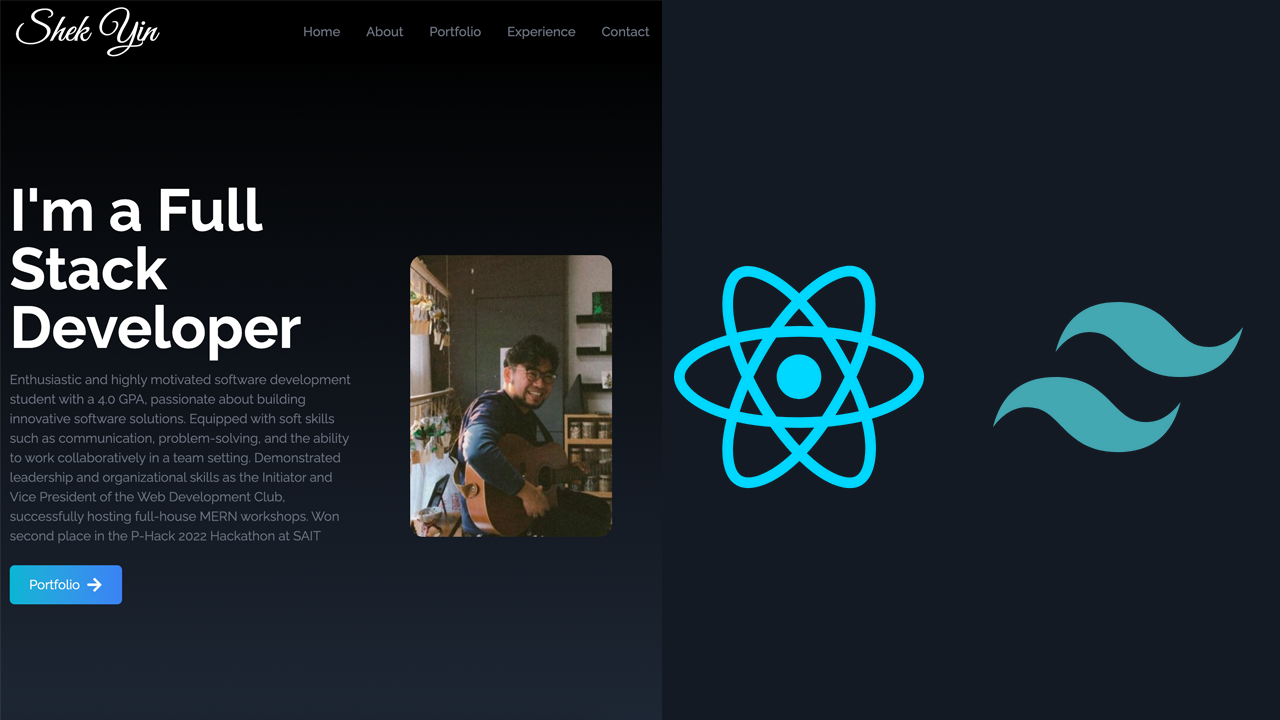
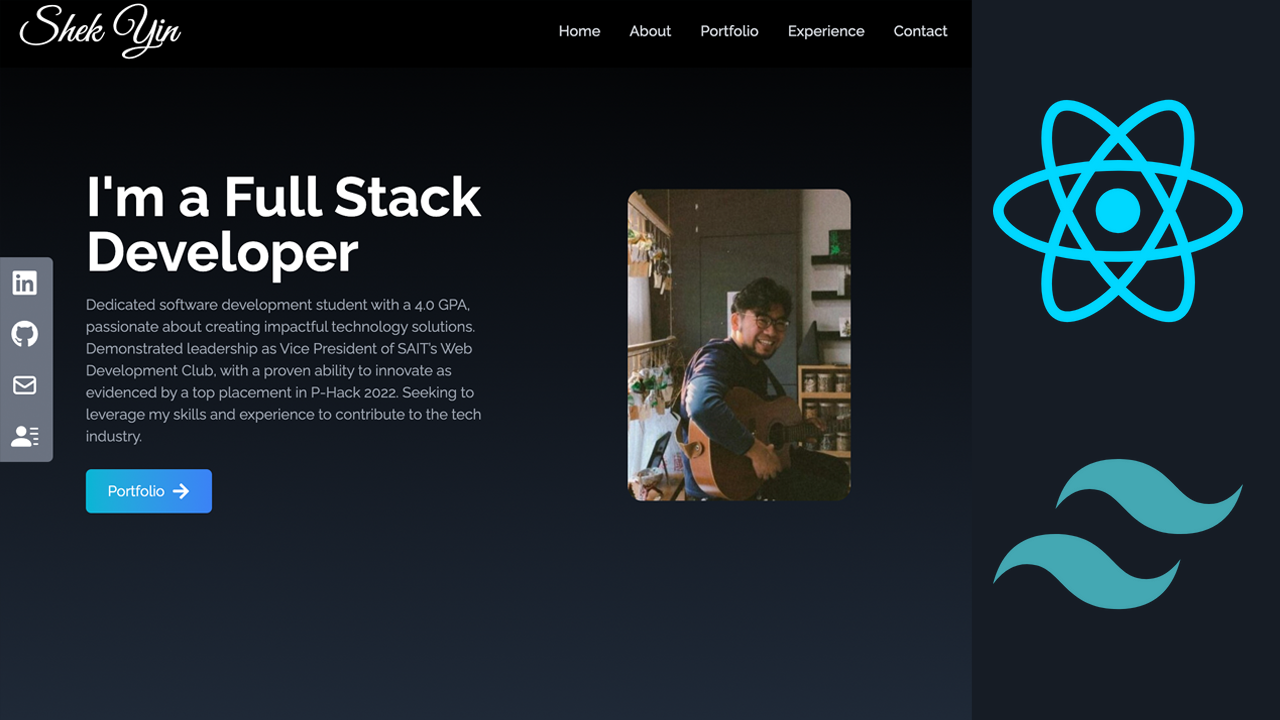
Refactor responsive design and update portfolio images

diff --git a/src/components/About.jsx b/src/components/About.jsx
@@ -4,34 +4,46 @@ const About = () => {
   return (
     <div
       name="about"
-      className="w-full h-screen bg-gradient-to-b from-gray-800 to-black text-white"
+      className="w-full md:h-screen bg-gradient-to-b from-gray-800 to-black text-white"
     >
-      <div className="max-w-screen-lg p-4 mx-auto flex flex-col justify-center w-full h-full">
+      <div className="max-w-screen-lg p-4 mx-auto flex flex-col justify-center w-full md:h-full">
         <div className="pb-8">
           <p className="text-4xl font-bold inline border-b-4 border-gray-500">
             About
           </p>
         </div>
-        <p className="text-xl mt-20 ">
-          Based in Calgary from 2022, full time studying Software Development
-          Diploma in SAIT, will graduate on April 2024. Equiped Python, C#,
-          JavaScript, HTML, CSS, at SAIT's learning, have so much passion on
-          software, web and mobile app development. With 13 years Banking
-          industry experience, expert in selling and customer relationship.
-          Founded Sunbath Store (online grocery store) and JEFT (Herbal tea
-          manufacture) in 2021. Passion in music and sport, over 20 years
-          taekwondo couching experience and also singer-songwriter for
-          Canton-pop music.
+        <p className="text-lg md:text-xl md:leading-8">
+          I bring with me over a decade of front-line experience in Hong Kong’s
+          banking sector and a twenty-year tenure as a Taekwondo coach, during
+          which I honed a diverse set of soft skills. In 2022, I embarked on a
+          new chapter in Calgary, eager to demonstrate my adaptability and
+          thirst for learning. I chose to dive into the realm of Software
+          Development—a field completely new to me. The diploma program has been
+          an intensive journey, offering a comprehensive grasp of various
+          programming languages spanning from back-end to front-end development.
+          This leap into IT as a beginner has been a significant challenge, yet
+          my enthusiasm for technology and a strategic learning approach have
+          earned me a perfect 4.0 GPA across all subjects for three consecutive
+          semesters. 
+          <br/><br/>
+          My time at SAIT has been more than academic; I took the initiative to
+          establish a Student Web Development Club named 'The Web Wizard,' where
+          I proudly serve as Vice President. 'The Web Wizard' orchestrates a
+          variety of events, including JavaScript and MERN workshops, and
+          Hackathon competitions, enriching my understanding of North American
+          work culture and fostering connections with fellow students and
+          faculty.
+          <br/><br/>
+          I am eager to transition into the North American tech industry,
+          where I intend to further my learning and make substantial
+          contributions. My journey so far has proven my ability to quickly
+          master new skills and adapt to various challenges. I am open and
+          enthusiastic about working with any technology stack, confident in my
+          capacity as a fast learner to thrive in diverse tech environments.
+          This flexibility, coupled with a foundation in multiple programming
+          languages, prepares me to meet the evolving needs of the industry with
+          both skill and a willingness to continually grow.
         </p>
-        <br />
-        {/* <p className="text-xl">
-          Lorem ipsum dolor sit amet consectetur adipisicing elit. Animi
-          perferendis optio qui est facere adipisci officia eaque cum harum
-          inventore, nulla dolores doloribus obcaecati ex asperiores corporis
-          quis deleniti tempora a ullam assumenda commodi repellendus suscipit
-          minima? Provident nam, quos laborum, quidem officiis animi culpa
-          dolores repudiandae nisi a rerum.
-        </p> */}
       </div>
     </div>
   );

diff --git a/src/components/Home.jsx b/src/components/Home.jsx
@@ -1,34 +1,59 @@
-import React from 'react'
-import ownImage from '../assets/heroImage3.jpeg'
-import {FaArrowRight} from 'react-icons/fa'
-import { Link } from 'react-scroll'
+import React from "react";
+import ownImage from "../assets/heroImage3.jpeg";
+import { FaArrowRight } from "react-icons/fa";
+import { Link } from "react-scroll";
 
 const Home = () => {
   return (
-    <div name="home" className="mt-10 h-screen w-full bg-gradient-to-b from-black to-gray-800 ">
+    <div
+      name="home"
+      className="mt-10 h-screen w-full bg-gradient-to-b from-black to-gray-800 "
+    >
       <div className=" ms-auto flex flex-col items-center h-full justify-center px-4 md:flex-row">
-        <div className="flex flex-col justify-center">
-          <h2 className=" md:text-6xl font-bold text-white w-fit text-3xl  ">
+        <div className="flex flex-col justify-center items-center md:ml-20">
+        <div className="flex md:hidden justify-center">
+          <img
+            src={ownImage}
+            alt="my profile"
+            className="rounded-2xl w-1/2 mb-14"
+          />
+        </div>
+          <h2 className=" md:text-6xl font-bold text-white max-w-lg text-3xl md:mb-5 ">
             I'm a Full Stack Developer
           </h2>
-          <p className="text-gray-400 py-4 max-w-lg">
-          Enthusiastic and highly motivated software development student with a 4.0 GPA, passionate about building innovative software solutions. Equipped with soft skills such as communication, problem-solving, and the ability to work collaboratively in a team setting. Demonstrated leadership and organizational skills as the Initiator and Vice President of the Web Development Club, successfully hosting full-house MERN workshops. Won second place in the P-Hack 2022 Hackathon at SAIT
+          <p className="text-gray-400 py-4 max-w-lg md:mt-5">
+            Dedicated software development student with a 4.0 GPA, passionate
+            about creating impactful technology solutions. Demonstrated
+            leadership as Vice President of SAIT’s Web Development Club, with a
+            proven ability to innovate as evidenced by a top placement in P-Hack
+            2022. Seeking to leverage my skills and experience to contribute to
+            the tech industry.
           </p>
-          <div>
-            <Link to="portfolio" smooth duration={500} className=" group text-white w-fit px-6 py-3 my-2 flex items-center rounded-md bg-gradient-to-r from-cyan-500 to-blue-500 cursor-pointer">
+          <div className="md:mt-10">
+            <Link
+              to="portfolio"
+              smooth
+              duration={500}
+              offset={-80}
+              className=" group text-white w-fit px-6 py-3 my-2 flex items-center rounded-md bg-gradient-to-r from-cyan-500 to-blue-500 cursor-pointer"
+            >
               Portfolio
               <span className="group-hover:rotate-90 duration-300">
-                <FaArrowRight size={20} className="ml-2"/>
-                </span>
+                <FaArrowRight size={20} className="ml-2" />
+              </span>
             </Link>
           </div>
         </div>
-        <div>
-          <img src={ownImage} alt="my profile" className="rounded-2xl mx-auto w-1/3 md:w-6/12"/>
+        <div className="hidden md:flex">
+          <img
+            src={ownImage}
+            alt="my profile"
+            className="rounded-2xl mx-auto w-1/3 md:w-6/12"
+          />
         </div>
       </div>
     </div>
-  )
-}
+  );
+};
 
-export default Home
+export default Home;

diff --git a/src/components/Portfolio.jsx b/src/components/Portfolio.jsx
@@ -2,6 +2,9 @@ import React from "react";
 import sunbathgamescore from "../assets/portfolio/sunbathgamescore.png";
 import decidophobia from "../assets/portfolio/decidophobia.png";
 import portfolioWeb from "../assets/portfolio/portfolioWeb.png";
+import sniperAcademy from "../assets/portfolio/sniperAcademy.png";
+import xpert from "../assets/portfolio/Xpertucantwin.png";
+import wordsOfWesteros from "../assets/portfolio/wordsOfWesteros.png";
 
 const Portfolio = () => {
   const portfolio = [
@@ -14,29 +17,48 @@ const Portfolio = () => {
     },
     {
       id: 2,
+      src: xpert,
+      showDemo: false,
+      gitURL:"https://github.com/alexltyt/XpertYouCantWin"
+    },
+    {
+      id: 3,
+      src: wordsOfWesteros,
+      showDemo: true,
+      demoURL: "https://words-of-westeros-alexltyt.vercel.app/",
+      gitURL:"https://github.com/alexltyt/WordsofWesteros"
+    },
+    {
+      id: 4,
+      src: sniperAcademy,
+      showDemo: false,
+      gitURL:"https://github.com/alexltyt/sniperAcademy"
+    },
+    {
+      id: 5,
       src: decidophobia,
       showDemo: true,
       demoURL: "https://alexltyt.github.io/Decidophobia/",
       gitURL:"https://github.com/alexltyt/Decidophobia"
     },
     {
-      id: 3,
+      id: 6,
       src: portfolioWeb,
       showDemo: false,
       gitURL:"https://github.com/alexltyt/own-portfolio"
     },
+      
   ];
   return (
     <div
       name="portfolio"
       className=" bg-gradient-to-b from-black to-gray-800 w-full text-white md:h-screen"
     >
-      <div className=" max-w-screen-lg p-4 mx-auto flex flex-col justify-center w-full h-full">
+      <div className=" max-w-screen-lg p-4 mx-auto flex flex-col justify-center w-full md:h-full">
         <div className="pb-8">
           <p className=" text-4xl font-bold inline border-b-4 border-gray-500">
             Portfolio
           </p>
-          <p className="py-6">Check out some of my work right here</p>
         </div>
         <div  className="grid sm:grid-cols-2 md:grid-cols-3 gap-8 px-12 sm:px-0">
         {portfolio.map(({ id, src,showDemo,demoURL,gitURL }) => (

diff --git a/src/components/Experience.jsx b/src/components/Experience.jsx
@@ -1,6 +1,6 @@
 import React from 'react';
 import html from "../assets/HTMLCSS.png";
-import css from "../assets/css.png";
+// import css from "../assets/css.png";
 import javascript from "../assets/javascript.png";
 import reactImage from "../assets/reactImage.png";
 import nextjs from "../assets/nextjs.png";
@@ -9,7 +9,7 @@ import github from "../assets/github.png";
 import tailwind from "../assets/tailwind.png";
 import java from "../assets/java.png";
 import python from "../assets/python.png";
-import reactNative from "../assets/reactNative.png";
+// import reactNative from "../assets/reactNative.png";
 const Experience = () => {
     const techs = [
         {
@@ -68,8 +68,8 @@ const Experience = () => {
         },
     ]
   return (
-    <div name="experience" className=" bg-gradient-to-b from-gray-800 to-black w-full h-screen">
-        <div className="max-w-screen-lg mx-auto p-4 flex flex-col justify-center w-full h-full text-white">
+    <div name="experience" className=" bg-gradient-to-b from-gray-800 to-black w-full md:h-screen">
+        <div className="max-w-screen-lg mx-auto p-4 flex flex-col justify-center w-full md:h-full text-white">
             <div>
                 <p className=" text-4xl font-bold border-b-4 border-gray-500 p-2 inline">Experience</p>
                 <p className=" py-6">These are the technologies I've worked with</p>

diff --git a/src/components/NavBar.jsx b/src/components/NavBar.jsx
@@ -40,7 +40,7 @@ const NavBar = () => {
             key={id}
             className="px-4 cursor-pointer capitalize font-medium text-gray-300 hover:scale-110 duration-200"
           >
-            <Link to={link} smooth duration={500}>
+            <Link to={link} smooth duration={500} isDynamic={true}>
               {link}
             </Link>
           </li>
@@ -61,7 +61,7 @@ const NavBar = () => {
               key={id}
               className="px-4 cursor-pointer capitalize py-6 text-4xl"
             >
-            <Link onClick={()=>setNav(!nav)} to={link} smooth duration={500}>
+            <Link onClick={()=>setNav(!nav)} to={link} smooth duration={500} isDynamic={true} offset={-80}>
               {link}
             </Link>
             </li>

diff --git a/src/components/Contact.jsx b/src/components/Contact.jsx
@@ -2,8 +2,8 @@ import React from 'react'
 
 const Contact = () => {
   return (
-    <div name="contact" className="w-full h-screen bg-gradient-to-b from-black to-gray-800 text-white">
-        <div className="flex flex-col p-4 justify-center max-w-screen-lg mx-auto h-full">
+    <div name="contact" className="w-full md:h-screen bg-gradient-to-b from-black to-gray-800 text-white">
+        <div className="flex flex-col p-4 justify-center max-w-screen-lg mx-auto md:h-full">
             <div className="pb-8">
                 <p className=" text-4xl font-bold inline border-b-4 border-gray-500">Contact</p>
                 <p className="py-6">Submit the form below to get in touch with me</p>
